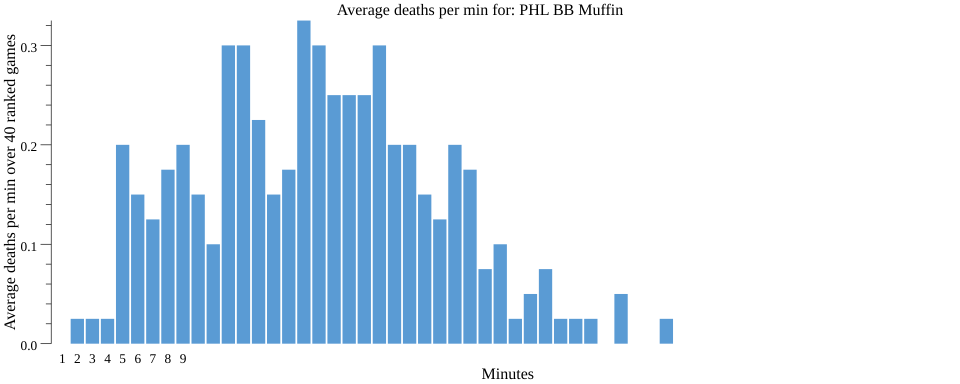
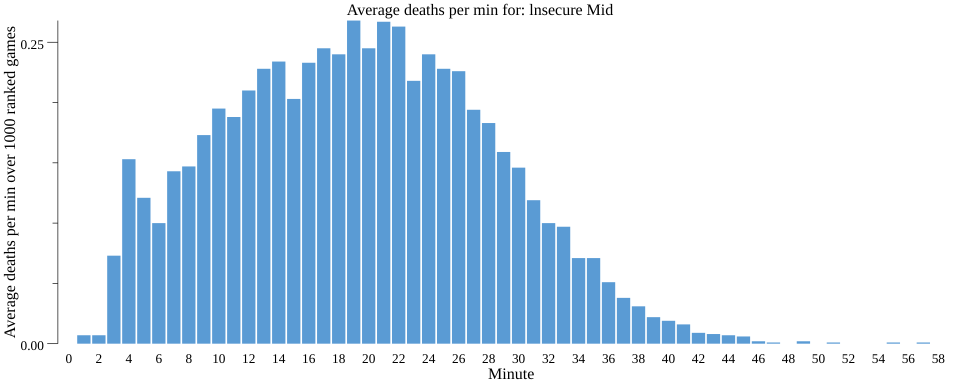
Added rate limit handling

Changed region(s): [[0.0, 0.0, 1.0, 1.0]]

diff --git a/main.go b/main.go
@@ -8,13 +8,12 @@ import (
 	"gonum.org/v1/plot/plotutil"
 	"gonum.org/v1/plot/vg"
 	"io/ioutil"
-	"log"
 	"net/http"
 	"strconv"
 	"time"
 )
 
-const key string = "api_key=RGAPI-f9c12a45-952b-499e-ada1-f208251d2eb3"
+const key string = "api_key=RGAPI-2acba61b-513f-4408-b47f-8e05b466e4a4"
 
 var numberOfPulls int = 0
 
@@ -149,18 +148,18 @@ type timelineEvents struct {
 func urlToStructSummoner(url string)summoner {
 	resp, err := http.Get(url)
 	if err != nil {
-		log.Fatal(err)
+		fmt.Println(err.Error())
 	}
 	//defer resp.Body.Close()
 	body, err := ioutil.ReadAll(resp.Body)
 	if err != nil {
-		log.Fatal(err)
+		fmt.Println(err.Error())
 	}
 
 	var data summoner
 	err = json.Unmarshal(body, &data)
 	if err != nil {
-		log.Fatal(err)
+		fmt.Println(err.Error())
 	}
 
 	return data
@@ -169,18 +168,18 @@ func urlToStructSummoner(url string)summoner {
 func urlToStructMatchHistory(url string)matchHistory {
 	resp, err := http.Get(url)
 	if err != nil {
-		log.Fatal(err)
+		fmt.Println(err.Error())
 	}
 	//defer resp.Body.Close()
 	body, err := ioutil.ReadAll(resp.Body)
 	if err != nil {
-		log.Fatal(err)
+		fmt.Println(err.Error())
 	}
 
 	var dataStruct matchHistory
 	err = json.Unmarshal(body, &dataStruct)
 	if err != nil {
-		log.Fatal(err)
+		fmt.Println(err.Error())
 	}
 
 	return dataStruct
@@ -189,18 +188,18 @@ func urlToStructMatchHistory(url string)matchHistory {
 func urlToStructMatchStats(url string)matchStats {
 	resp, err := http.Get(url)
 	if err != nil {
-		log.Fatal(err)
+		fmt.Println(err.Error())
 	}
 	//defer resp.Body.Close()
 	body, err := ioutil.ReadAll(resp.Body)
 	if err != nil {
-		log.Fatal(err)
+		fmt.Println(err.Error())
 	}
 
 	var dataStruct matchStats
 	err = json.Unmarshal(body, &dataStruct)
 	if err != nil {
-		log.Fatal(err)
+		fmt.Println(err.Error())
 	}
 
 	return dataStruct
@@ -209,18 +208,18 @@ func urlToStructMatchStats(url string)matchStats {
 func urlToTimeline(url string)timeline {
 	resp, err := http.Get(url)
 	if err != nil {
-		log.Fatal(err)
+		fmt.Println(err.Error())
 	}
 	//defer resp.Body.Close()
 	body, err := ioutil.ReadAll(resp.Body)
 	if err != nil {
-		log.Fatal(err)
+		fmt.Println(err.Error())
 	}
 
 	var dataStruct timeline
 	err = json.Unmarshal(body, &dataStruct)
 	if err != nil {
-		log.Fatal(err)
+		fmt.Println(err.Error())
 	}
 
 	return dataStruct
@@ -233,9 +232,9 @@ func summonerSearch(name string) summoner{
 	return urlToStructSummoner(url)
 }
 
-func matchHistorySearch(name string) matchHistory{
+func matchHistorySearch(name string, start int) matchHistory{
 	base := "https://euw1.api.riotgames.com/lol/match/v4/matchlists/by-account/"
-	filters := "queue=420&"
+	filters := "queue=420&beginIndex=" + strconv.Itoa(start) + "&"
 	accountId := string(summonerSearch(name).AccountId)
 	url := base+accountId+"?"+filters+key
 	fmt.Println(url)
@@ -260,26 +259,48 @@ func timelineSearch(matchId int) timeline{
 
 func main() {
 	sampleSize := 100
-	name := "Witzel"
+	name := "lnsecure mid"
 	m := 0
 	totalDeathsGraph := [60]float64{}
-	mH := matchHistorySearch(name)
+	mH0 := matchHistorySearch(name,0)
+	mH1 := matchHistorySearch(name,100)
+	mH2 := matchHistorySearch(name,200)
+	mH3 := matchHistorySearch(name,300)
+	mH4 := matchHistorySearch(name,400)
+	mH5 := matchHistorySearch(name,500)
+	mH6 := matchHistorySearch(name,600)
+	mH7 := matchHistorySearch(name,700)
+	mH8 := matchHistorySearch(name,800)
+	mH9 := matchHistorySearch(name,900)
+	mH0.Matches = append(mH0.Matches, mH1.Matches...)
+	mH0.Matches = append(mH0.Matches, mH2.Matches...)
+	mH0.Matches = append(mH0.Matches, mH3.Matches...)
+	mH0.Matches = append(mH0.Matches, mH4.Matches...)
+	mH0.Matches = append(mH0.Matches, mH5.Matches...)
+	mH0.Matches = append(mH0.Matches, mH6.Matches...)
+	mH0.Matches = append(mH0.Matches, mH7.Matches...)
+	mH0.Matches = append(mH0.Matches, mH8.Matches...)
+	mH0.Matches = append(mH0.Matches, mH9.Matches...)
+	fmt.Println(len(mH0.Matches))
+	summoner := summonerSearch(name)
+	summonerId := summoner.Id
+	time.Sleep(2*time.Minute)
 	for k := 0; k<sampleSize; k++ {
 		playerIdMatch := false
 		playerId := 0
-		matchStatistics := matchStatsSearch(mH.Matches[k].GameId)
+		matchStatistics := matchStatsSearch(mH0.Matches[k].GameId)
 		for l := 0; playerIdMatch==false; l++{
-			if matchStatistics.ParticipantIdentities[l].Player.SummonerName==name{
+			if matchStatistics.ParticipantIdentities[l].Player.SummonerId==summonerId {
 				playerId = matchStatistics.ParticipantIdentities[l].ParticipantId
 				playerIdMatch=true
 				}
 		}
-		timeline := timelineSearch(mH.Matches[k].GameId)
-		if numberOfPulls>90 {
+		timeline := timelineSearch(mH0.Matches[k].GameId)
+		if numberOfPulls>95 {
 			time.Sleep(2*time.Minute)
 			numberOfPulls = 0
 		}
-		fmt.Println(numberOfPulls)
+		fmt.Println(strconv.Itoa(k) + " games looked at")
 		for i := 0; i < len(timeline.Frames); i++ {
 			for j := 0; j < len(timeline.Frames[i].Events); j++ {
 				if timeline.Frames[i].Events[j].Type == "CHAMPION_KILL" && timeline.Frames[i].Events[j].VictimId == playerId {
@@ -293,7 +314,6 @@ func main() {
 	for i:=1; i< len(totalDeathsGraph); i++{
 		totalDeathsGraph[i]=totalDeathsGraph[i]/float64(sampleSize)
 	}
-
 	data := make(plotter.Values, 60)
 	for i:=0; i<60; i++ {
 		data[i]=totalDeathsGraph[i]
@@ -318,7 +338,7 @@ func main() {
 
 	p.Add(barsA)
 	p.Legend.Top = true
-	p.NominalX("1", "2", "3", "4", "5", "6", "7", "8", "9")
+	p.NominalX("0", "", "2", "", "4", "", "6", "", "8", "", "10", "", "12", "", "14", "", "16", "", "18", "", "20", "", "22", "", "24", "", "26", "", "28", "", "30", "", "32", "", "34", "", "36", "", "38", "", "40", "", "42", "", "44", "", "46", "", "48", "", "50", "", "52", "", "54", "", "56", "", "58", "", "60")
 
 	if err := p.Save(10*vg.Inch, 4*vg.Inch, "barchart.png"); err != nil {
 		panic(err)
